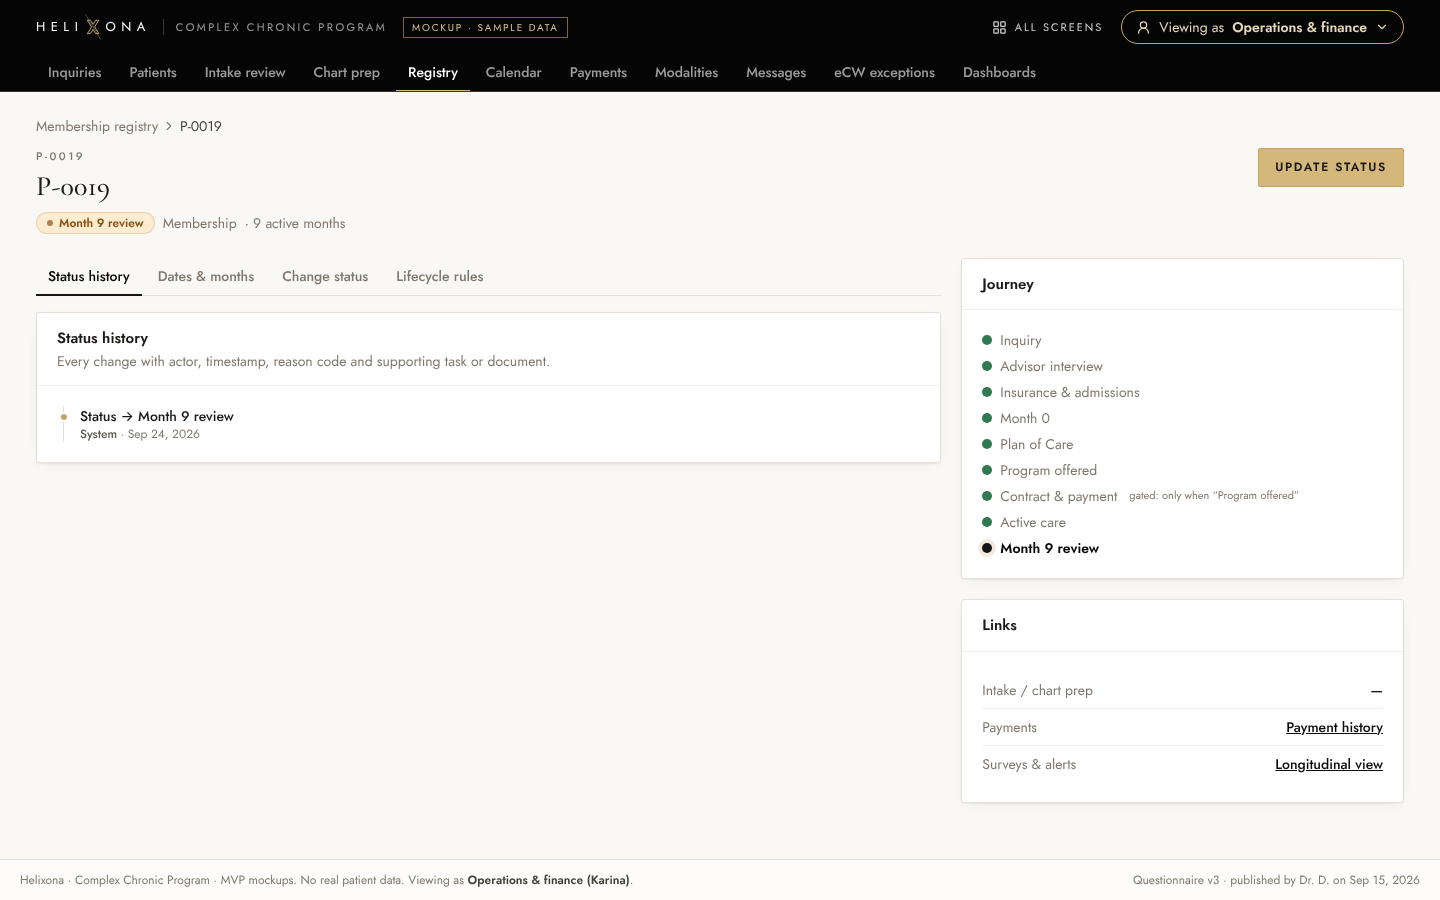
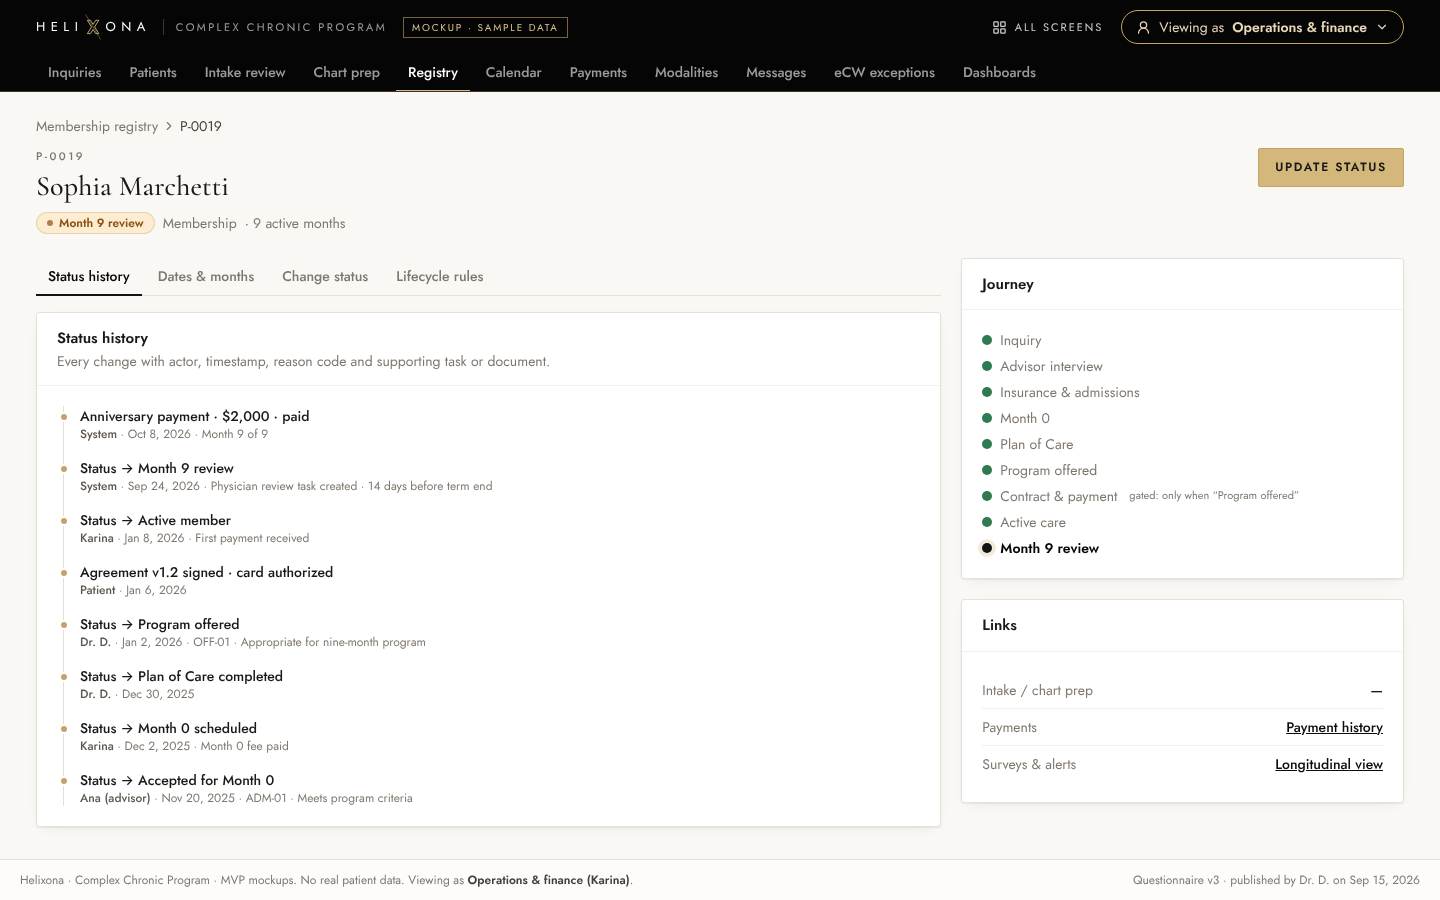
Registry: names for members without intake records, fuller Month 9 history
Claude-Session: https://claude.ai/code/session_01XYaKrUbBD9snGiT4u57yqi

diff --git a/src/mock/program.ts b/src/mock/program.ts
@@ -99,7 +99,11 @@ export const members: Member[] = [
     { actor: 'Karina', when: 'Jun 10, 2026', action: 'Status → Active member', reason: 'Agreement signed · ACH authorized' }, { actor: 'Karina', when: 'Jun 3, 2026', action: 'Status → Program offered', reason: 'Plan of Care reviewed with patient' }, { actor: 'Dr. D.', when: 'Jun 2, 2026', action: 'Status → Plan of Care completed' },
   ] },
   { id: 'P-0028', status: 'Temporarily paused', month0Start: 'Apr 1, 2026', month0End: 'Apr 29, 2026', membershipStart: 'May 6, 2026', nineMonthEnd: 'Feb 6, 2027 (+ pause)', pauses: [{ from: 'Sep 15, 2026', to: 'Oct 15, 2026', reason: 'PAU-01 · Travel' }], activeMonths: 4, monthlyAmount: 2000, lastChange: { actor: 'Karina', when: 'Sep 12, 2026', action: 'Status → Temporarily paused', reason: 'PAU-01 · Travel · payments and surveys paused' }, history: [{ actor: 'Karina', when: 'Sep 12, 2026', action: 'Status → Temporarily paused', reason: 'PAU-01 · Travel' }] },
-  { id: 'P-0019', status: 'Month 9 review', month0Start: 'Dec 2, 2025', month0End: 'Dec 30, 2025', membershipStart: 'Jan 8, 2026', nineMonthEnd: 'Oct 8, 2026', pauses: [], month9Review: 'Oct 9, 2026 · Dr. D.', activeMonths: 9, monthlyAmount: 2000, lastChange: { actor: 'System', when: 'Sep 24, 2026', action: 'Status → Month 9 review', reason: 'Physician review task created · 14 days before term end' }, history: [{ actor: 'System', when: 'Sep 24, 2026', action: 'Status → Month 9 review' }] },
+  { id: 'P-0019', status: 'Month 9 review', month0Start: 'Dec 2, 2025', month0End: 'Dec 30, 2025', membershipStart: 'Jan 8, 2026', nineMonthEnd: 'Oct 8, 2026', pauses: [], month9Review: 'Oct 9, 2026 · Dr. D.', activeMonths: 9, monthlyAmount: 2000, lastChange: { actor: 'System', when: 'Sep 24, 2026', action: 'Status → Month 9 review', reason: 'Physician review task created · 14 days before term end' }, history: [
+    { actor: 'Ana (advisor)', when: 'Nov 20, 2025', action: 'Status → Accepted for Month 0', reason: 'ADM-01 · Meets program criteria' }, { actor: 'Karina', when: 'Dec 2, 2025', action: 'Status → Month 0 scheduled', reason: 'Month 0 fee paid' }, { actor: 'Dr. D.', when: 'Dec 30, 2025', action: 'Status → Plan of Care completed' },
+    { actor: 'Dr. D.', when: 'Jan 2, 2026', action: 'Status → Program offered', reason: 'OFF-01 · Appropriate for nine-month program' }, { actor: 'Patient', when: 'Jan 6, 2026', action: 'Agreement v1.2 signed · card authorized' }, { actor: 'Karina', when: 'Jan 8, 2026', action: 'Status → Active member', reason: 'First payment received' },
+    { actor: 'System', when: 'Oct 8, 2026', action: 'Anniversary payment · $2,000 · paid', reason: 'Month 9 of 9' },
+  ] },
   { id: 'P-0041', status: 'Month 0 in progress', month0Start: 'Sep 16, 2026', pauses: [], activeMonths: 0, monthlyAmount: 0, lastChange: { actor: 'Karina', when: 'Sep 16, 2026', action: 'Status → Month 0 in progress', reason: 'Assessment visit completed · testing ordered' }, history: [] },
   { id: 'P-0044', status: 'Month 0 scheduled', month0Start: 'Oct 14, 2026', pauses: [], activeMonths: 0, monthlyAmount: 0, lastChange: { actor: 'Karina', when: 'Oct 2, 2026', action: 'Status → Month 0 scheduled', reason: 'Month 0 fee paid · assessment Oct 14' }, history: [] },
   { id: 'P-0043', status: 'Accepted for Month 0', pauses: [], activeMonths: 0, monthlyAmount: 0, lastChange: { actor: 'Ana (advisor)', when: 'Sep 26, 2026', action: 'Status → Accepted for Month 0', reason: 'ADM-01' }, history: [] },
@@ -110,6 +114,8 @@ export const members: Member[] = [
   { id: 'P-0017', status: 'Withdrawn', month0Start: 'Nov 4, 2025', month0End: 'Dec 2, 2025', membershipStart: 'Dec 9, 2025', pauses: [], activeMonths: 3, monthlyAmount: 0, lastChange: { actor: 'Karina', when: 'Mar 12, 2026', action: 'Status → Withdrawn', reason: 'WDR-02 · Relocation · final invoice settled' }, history: [] },
   { id: 'P-0046', status: 'Advisor interview completed', pauses: [], activeMonths: 0, monthlyAmount: 0, lastChange: { actor: 'Ana (advisor)', when: 'Oct 6, 2026', action: 'Status → Advisor interview completed' }, history: [] },
 ]
+export const memberNames: Record<string, string> = { 'P-0031': 'Elena Vasquez', 'P-0028': 'Daniel Brooks', 'P-0019': 'Sophia Marchetti', 'P-0036': 'Nadia Haddad', 'P-0034': 'Victor Lindgren', 'P-0022': 'Amara Osei', 'P-0017': 'Henry Caldwell' }
+
 export const statusCatalog: { status: RegistryStatus; phase: string; action: string }[] = [
   { status: 'Inquiry received', phase: 'Pre-enrollment', action: 'Create owner and outreach task' }, { status: 'Advisor outreach', phase: 'Pre-enrollment', action: 'Track attempts' }, { status: 'Advisor interview completed', phase: 'Pre-enrollment', action: 'Open insurance and admissions work' },
   { status: 'Insurance benefits review', phase: 'Pre-enrollment', action: 'Record review summary' }, { status: 'Admissions review', phase: 'Pre-enrollment', action: 'Allow recorded decision' }, { status: 'Accepted for Month 0', phase: 'Month 0', action: 'Enable Month 0 payment, intake, scheduling' },

diff --git a/src/modules/registry/MemberDetail.tsx b/src/modules/registry/MemberDetail.tsx
@@ -1,7 +1,7 @@
 import { useState } from 'react'
 import { useParams } from 'react-router-dom'
 import { AuditList, Breadcrumb, Card, Field, Notice, PageHeader, Pill, Row, Tabs, toneFor } from '../../components/ui'
-import { members, statusCatalog } from '../../mock/program'
+import { memberNames, members, statusCatalog } from '../../mock/program'
 import { patientById } from '../../mock/patients'
 import { JourneyStrip } from '../intake/staff/PatientDetail'
 
@@ -12,11 +12,11 @@ export default function MemberDetail() {
   const [tab, setTab] = useState('timeline')
   const [next, setNext] = useState<string>('')
   const cat = statusCatalog.find((c) => c.status === m.status)
-  const fullHistory = [...m.history, m.lastChange].filter((h, i, a) => a.findIndex((x) => x.when === h.when && x.action === h.action) === i).reverse()
+  const fullHistory = [...m.history, m.lastChange].filter((h, i, a) => a.findIndex((x) => x.when === h.when && x.action === h.action) === i).sort((a, b) => Date.parse(a.when) - Date.parse(b.when)).reverse()
   return (
     <>
       <Breadcrumb items={[{ label: 'Membership registry', to: '/staff/registry' }, { label: m.id }]} />
-      <PageHeader eyebrow={`${m.id}${p ? ` · eCW ${p.ecwId}` : ''}`} title={p ? `${p.firstName} ${p.lastName}` : m.id} meta={<><Pill tone={toneFor(m.status)}>{m.status}</Pill><span>{cat?.phase}</span><span>· {m.activeMonths} active months</span></>} actions={<button className="btn-primary">Update status</button>} />
+      <PageHeader eyebrow={`${m.id}${p ? ` · eCW ${p.ecwId}` : ''}`} title={p ? `${p.firstName} ${p.lastName}` : memberNames[m.id] ?? m.id} meta={<><Pill tone={toneFor(m.status)}>{m.status}</Pill><span>{cat?.phase}</span><span>· {m.activeMonths} active months</span></>} actions={<button className="btn-primary">Update status</button>} />
       <div className="grid gap-5 lg:grid-cols-3">
         <div className="lg:col-span-2">
           <Tabs value={tab} onChange={setTab} tabs={[{ key: 'timeline', label: 'Status history' }, { key: 'dates', label: 'Dates & months' }, { key: 'transition', label: 'Change status' }, { key: 'rules', label: 'Lifecycle rules' }]} />
